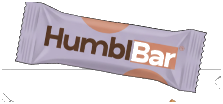
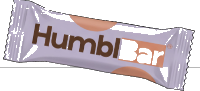
Render Built for ordinary days as clean text without boxes or overlap and ensure pure transparency

diff --git a/app/globals.css b/app/globals.css
@@ -193,88 +193,75 @@ body {
 .headline-bar-sticker {
   position: relative;
   flex-shrink: 0;
-  width: 145px;
-  transform: rotate(-7deg);
-  cursor: pointer;
+  width: 140px;
+  display: flex;
+  flex-direction: column;
+  align-items: center;
+  justify-content: center;
   background: transparent !important;
   border: none;
+  cursor: pointer;
   user-select: none;
-  transition: transform 0.35s cubic-bezier(0.34, 1.56, 0.64, 1);
+  transition: transform 0.3s cubic-bezier(0.34, 1.56, 0.64, 1);
 }
 
 .headline-bar-sticker:hover {
-  transform: rotate(-1deg) scale(1.06);
-}
-
-.headline-bar-sticker.opened {
-  transform: rotate(0deg) scale(1.04);
+  transform: scale(1.05);
 }
 
 .bar-wrapper-visual {
   position: relative;
-  filter: drop-shadow(0 10px 22px rgba(0, 0, 0, 0.55));
-  transition: all 0.4s cubic-bezier(0.34, 1.56, 0.64, 1);
+  width: 100%;
+  filter: drop-shadow(0 8px 18px rgba(0, 0, 0, 0.45));
+  transition: all 0.35s cubic-bezier(0.34, 1.56, 0.64, 1);
+  transform: rotate(-6deg);
 }
 
 .headline-bar-sticker.opened .bar-wrapper-visual {
-  transform: scale(1.1) rotate(3deg);
-  filter: drop-shadow(0 14px 30px rgba(243, 181, 98, 0.5));
+  transform: rotate(0deg) scale(1.08);
+  filter: drop-shadow(0 12px 24px rgba(243, 181, 98, 0.4));
 }
 
-.bar-hint-pill {
-  position: absolute;
-  top: -20px;
-  left: 50%;
-  transform: translateX(-50%);
-  background: #F3B562;
-  color: #1A0D08;
+/* Pure clean text hint (no box) */
+.bar-hint-text {
   font-family: var(--font-hand);
-  font-size: 0.88rem;
+  font-size: 0.92rem;
   font-weight: 700;
-  padding: 2px 10px;
-  border-radius: 12px;
-  box-shadow: 0 4px 12px rgba(0, 0, 0, 0.4);
-  animation: pulseHint 2s ease-in-out infinite;
+  color: var(--color-gold);
+  margin-bottom: 4px;
+  letter-spacing: 0.02em;
   white-space: nowrap;
-  pointer-events: none;
-  z-index: 5;
+  animation: pulseHint 2s ease-in-out infinite;
 }
 
 @keyframes pulseHint {
   0%, 100% {
-    transform: translateX(-50%) translateY(0);
+    transform: translateY(0);
   }
   50% {
-    transform: translateX(-50%) translateY(-4px);
+    transform: translateY(-3px);
   }
 }
 
-.bar-reveal-tag {
-  position: absolute;
-  top: -30px;
-  left: 50%;
-  transform: translateX(-50%) translateY(6px) scale(0.85);
-  background: linear-gradient(135deg, #C2633E 0%, #A84E2B 100%);
-  color: #FFFFFF;
-  font-family: var(--font-display);
-  font-size: 0.78rem;
-  font-weight: 800;
+/* Pure clean text tagline revealed below the bar (NO BOX, zero overlap) */
+.bar-reveal-text {
+  font-family: var(--font-hand);
+  font-size: 0.95rem;
+  font-weight: 700;
+  color: #F3B562;
+  margin-top: 6px;
   letter-spacing: 0.02em;
-  padding: 5px 12px;
-  border-radius: 8px;
-  border: 1px solid rgba(255, 255, 255, 0.3);
-  box-shadow: 0 8px 20px rgba(0, 0, 0, 0.55);
-  opacity: 0;
-  pointer-events: none;
-  transition: all 0.35s cubic-bezier(0.34, 1.56, 0.64, 1);
   white-space: nowrap;
-  z-index: 6;
+  opacity: 0;
+  max-height: 0;
+  overflow: hidden;
+  transition: all 0.35s ease;
+  text-align: center;
 }
 
-.bar-reveal-tag.visible {
+.bar-reveal-text.visible {
   opacity: 1;
-  transform: translateX(-50%) translateY(0) scale(1);
-  pointer-events: auto;
+  max-height: 40px;
 }
 
 .headline-bar-img {
@@ -292,19 +279,16 @@ body {
     justify-content: space-between;
   }
   .headline-bar-sticker {
-    width: 95px;
+    width: 90px;
     margin-top: 4px;
-    transform: rotate(-5deg);
   }
-  .bar-reveal-tag {
-    font-size: 0.68rem;
-    padding: 4px 8px;
-    top: -26px;
+  .bar-hint-text {
+    font-size: 0.8rem;
+    margin-bottom: 2px;
   }
-  .bar-hint-pill {
-    font-size: 0.78rem;
-    padding: 1px 7px;
-    top: -18px;
+  .bar-reveal-text {
+    font-size: 0.82rem;
+    margin-top: 4px;
   }
 }
 

diff --git a/app/page.js b/app/page.js
@@ -194,28 +194,27 @@ export default function HomePage() {
                   setIsBarOpened(nextState);
                   if (nextState) {
                     confetti({
-                      particleCount: 25,
-                      spread: 50,
-                      origin: { y: 0.28, x: 0.65 }
+                      particleCount: 20,
+                      spread: 45,
+                      origin: { y: 0.3, x: 0.65 }
                     });
                   }
                 }}
                 title={isBarOpened ? "Click to close" : "Tap to open HumblBar!"}
               >
-                {/* Revealed message above bar */}
-                <div className={`bar-reveal-tag ${isBarOpened ? 'visible' : ''}`}>
-                  <span>Built for ordinary days ✨</span>
-                </div>
-
-                {/* Hint chip when closed */}
                 {!isBarOpened && (
-                  <div className="bar-hint-pill">
-                    <span>Open me ✨</span>
-                  </div>
+                  <span className="bar-hint-text">
+                    Open me ✨
+                  </span>
                 )}
 
                 <div className="bar-wrapper-visual">
                   <img src="/sticker_bar.png" alt="HumblBar Clean Protein Bar" className="headline-bar-img" />
+                </div>
+
+                {/* Pure text tagline revealed below the bar - NO BOX, no overlap */}
+                <div className={`bar-reveal-text ${isBarOpened ? 'visible' : ''}`}>
+                  Built for ordinary days ✨
                 </div>
               </div>
             </div>
